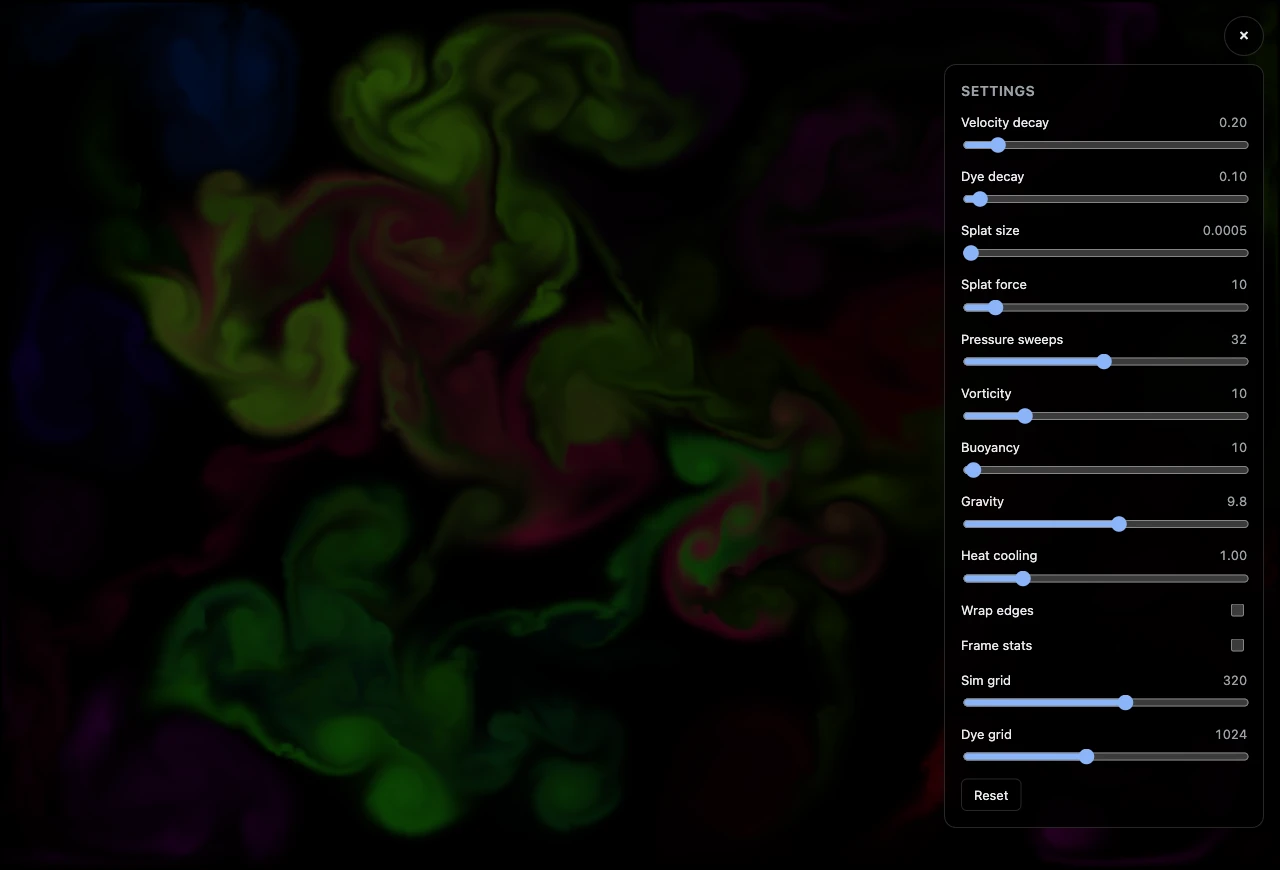
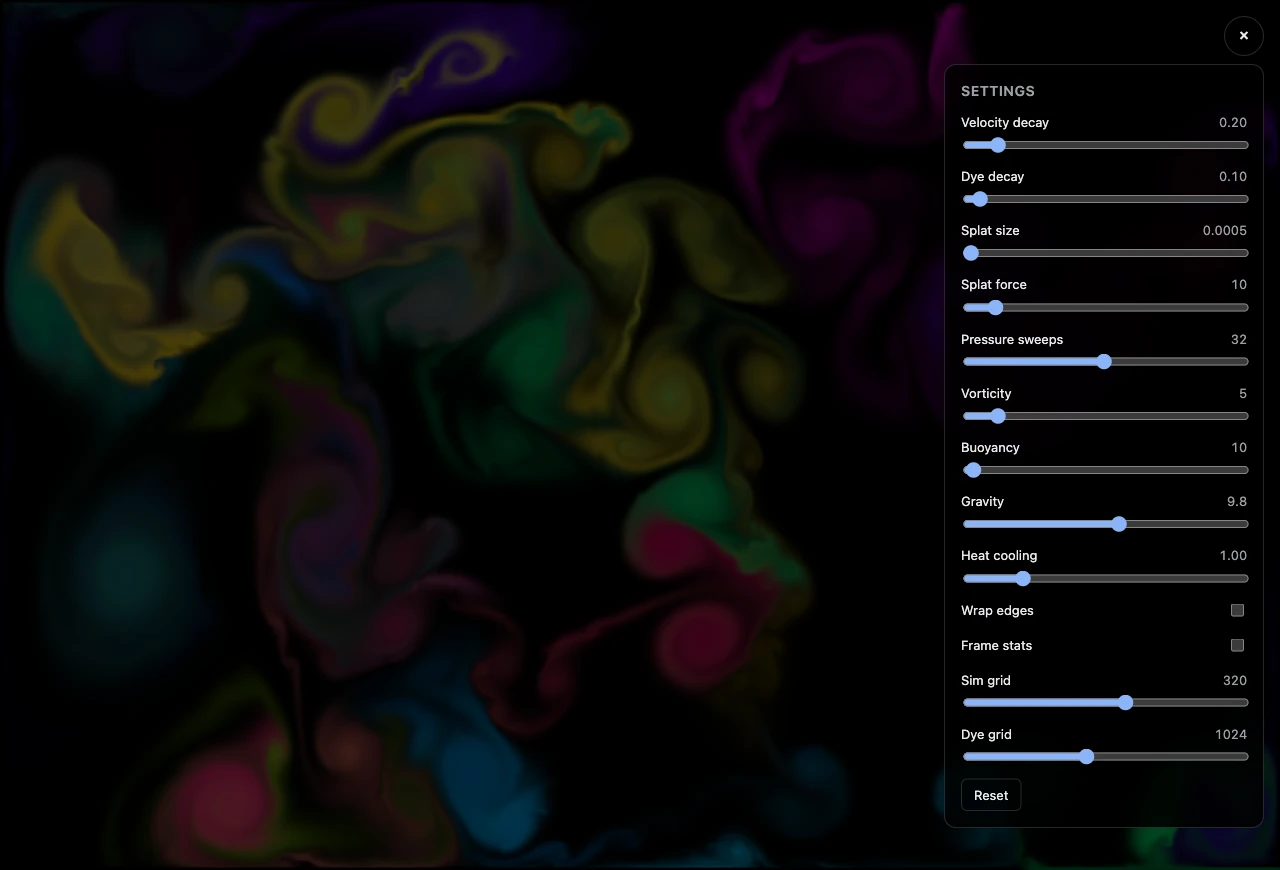
feat: default the vorticity strength to 5

diff --git a/src/fluid/config.ts b/src/fluid/config.ts
@@ -23,7 +23,7 @@ export const DYE_DISSIPATION = 0.1;
 
 /** Strength of the vorticity confinement pass: cells per second of velocity
  * added per second, per unit of curl. 0 switches the pass off. */
-export const VORTICITY_CONFINEMENT = 10;
+export const VORTICITY_CONFINEMENT = 5;
 
 /** Cells per second squared of lift per unit of heat at Earth's gravity; 0
  * switches the pass off. */

diff --git a/src/SettingsPanel.test.tsx b/src/SettingsPanel.test.tsx
@@ -73,7 +73,8 @@ describe("SettingsPanel", () => {
     await open();
 
     expect(screen.getByText("0.0005")).toBeTruthy();
-    expect(screen.getAllByText("10")).toHaveLength(3);
+    expect(screen.getAllByText("10")).toHaveLength(2);
+    expect(screen.getByText("5")).toBeTruthy();
     expect(screen.getByText("0.20")).toBeTruthy();
   });
 
